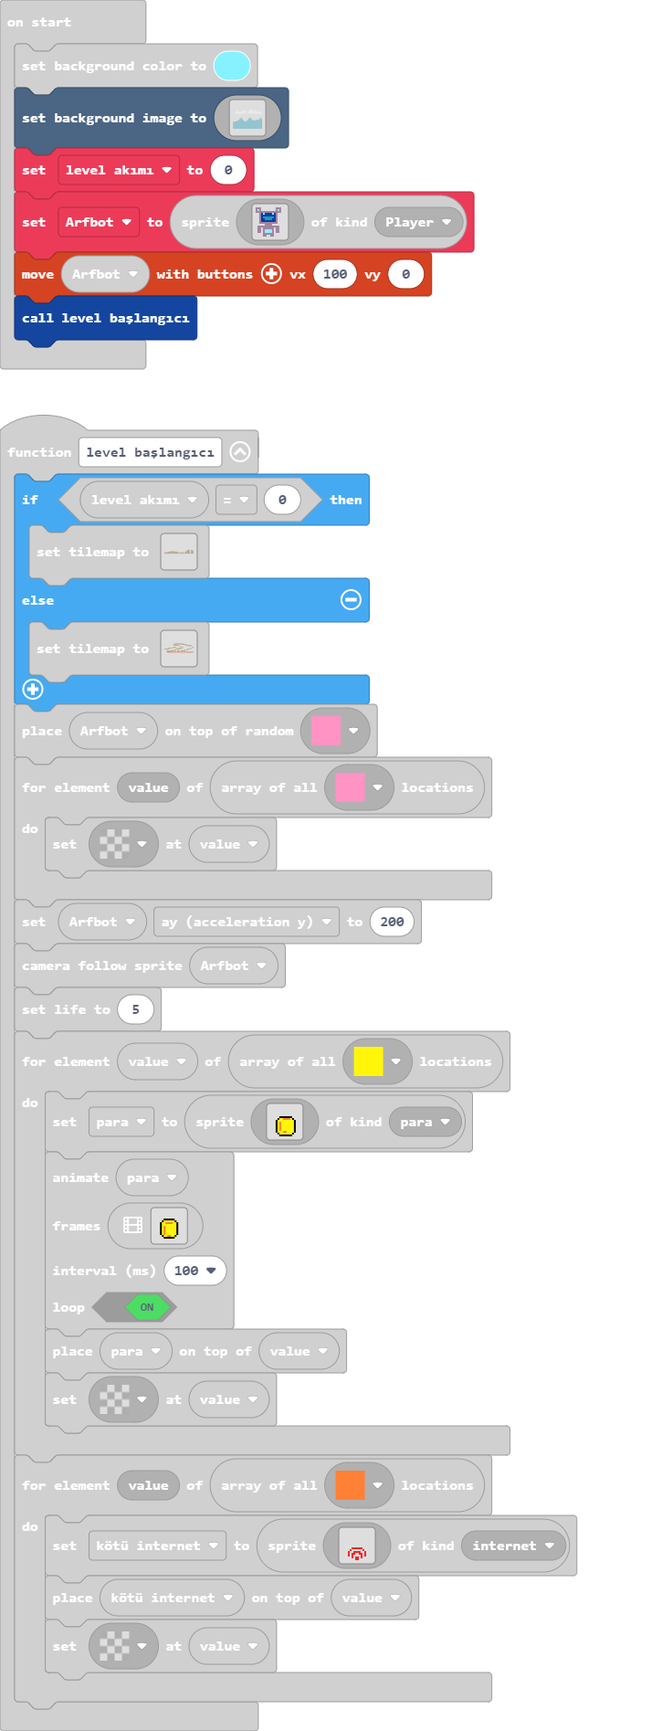
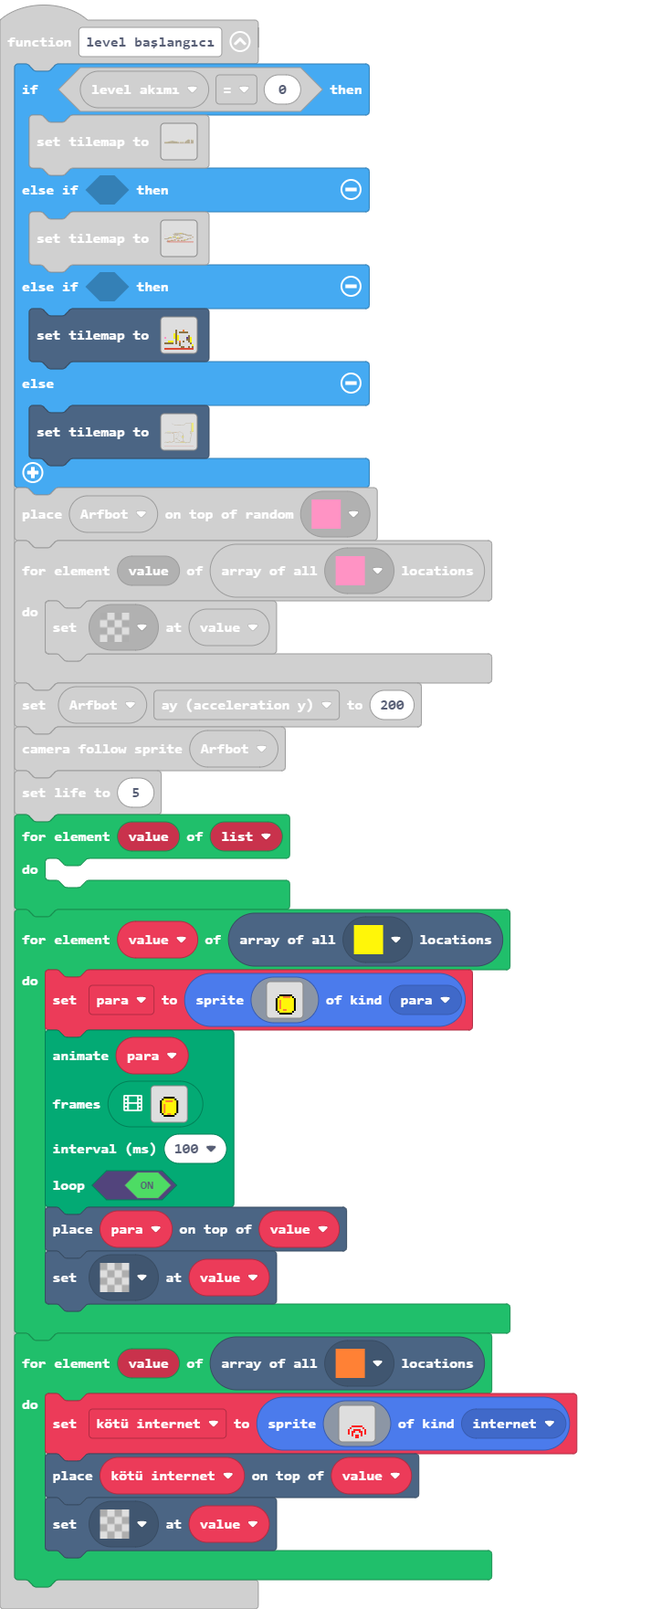
Update main.blocks, main.ts, tilemap.g.jres, tilemap.g.ts

diff --git a/tilemap.g.ts b/tilemap.g.ts
@@ -120,6 +120,128 @@ namespace myTiles {
 ....2222222.......................................
 ..................................................
 `, [myTiles.transparency16,myTiles.tile1,myTiles.tile4,myTiles.tile5,myTiles.tile7,myTiles.tile9,myTiles.tile10], TileScale.Sixteen);
+            case "level6":
+            case "level6":return tiles.createTilemap(hex`1000100000000000000000000000000000000000000000000000000000000000000000000000000000000000000000000000000000000000000000000000000000000000000000000000000000000000000000000000000000000100000005000000000000000000000001000101010101000000000000000004010000000000000000000000000000040104000000000001000006000000000401040000000003010400000000000000010400000000010104000000040404000100050001000001040001010101010001000100000000000100000000000000000001000000000000040000000000000000000101000001000102020202020202020202020202020202`, img`
+. . . . . . . . . . . . . . . . 
+. . . . . . . . . . . . . . . . 
+. . . . . . . . . . . . . . . . 
+. . . . . . . . . . . . . . . . 
+. . . . . . . . . . . . . . . . 
+. . . . . . 2 . . . . . . . . . 
+. . . . . . 2 . 2 2 2 2 2 . . . 
+. . . . . . 2 2 . . . . 2 . . . 
+. . . . . . 2 . . . . . . 2 . . 
+. . . . . . 2 . . . . . . 2 . . 
+. . . . . . 2 . . . . . 2 2 . . 
+. . . . . . 2 . . . 2 . . 2 . . 
+2 2 2 2 2 . 2 . 2 . . . . . 2 . 
+. . . . . . . . 2 . . . . . . . 
+. . . . . . . . . 2 2 . . 2 . 2 
+. . . . . . . . . . . . . . . . 
+`, [myTiles.transparency16,myTiles.tile1,myTiles.tile4,myTiles.tile5,myTiles.tile7,myTiles.tile9,myTiles.tile10], TileScale.Sixteen);
+            case "level7":
+            case "level7":return tiles.createTilemap(hex`6400640000000000000000000000000000000000000000000000000000000000000000000000000000000000000000000000000000000000000000000000000000000000000000000000000000000000000000000000000000000000000000000000000000000000000000000000000000000000000000000000000000000000000000000000000000000000000000000000000000000000000000000000000000000000000000000000000000000000000000000000000000000000000000000000000000000000000000000000000000000000000000000000000000000000000000000000000000000000000000000000000000000000000000000000000000000000000000000000000000000000000000000000000000000000000000000000000000000000000000000000000000000000000000000000000000000000000000000000000000000000000000000000000000000000000000000000000000000000000000000000000000000000000000000000000000000000000000000000000000000000000000000000000000000000000000000000000000000000000000000000000000000000000000000000000000000000000000000000000000000000000000000000000000000000000000000000000000000000000000000000000000000000000000000000000000000000000000000000000000000000000000000000000000000000000000000000000000000000000000000000000000000000000000000000000000000000000000000000000000000000000000000000000000000000000000000000000000000000000000000000000000000000000000000000000000000000000000000000000000000000000000000000000000000000000000000000000000000000000000000000000000000000000000000000000000000000000000000000000000000000000000000000000000000000000000000000000000000000000000000000000000000000000000000000000000000000000000000000000000000000000000000000000000000000000000000000000000000000000000000000000000000000000000000000000000000000000000000000000000000000000000000000000000000000000000000000000000000000000000000000000000000000000000000000000000000000000000000000000000000000000000000000000000000000000000000000000000000000000000000000000000000000000000000000000000000000000000000000000000000000000000000000000000000000000000000000000000000000000000000000000000000000000000000000000000000000000000000000000000000000000000000000000000000000000000000000000000000000000000000000000000000000000000000000000000000000000000000000000000000000000000000000000000000000000000000000000000000000000000000000000000000000000000000000000000000000000000000000000000000000000000000000000000000000000000000000000000000000000000000000000000000000000000000000000000000000000000000000000000000000000000000000000000000000000000000000000000000000000000000000000000000000000000000000000000000000000000000000000000000000000000000000000000000000000000000000000000000000000000000000000000000000000000000000000000000000000000000000000000000000000000000000000000000000000000000000000000000000000000000000000000000000000000000000000000000000000000000000000000000000000000000000000000000000000000000000000000000000000000000000000000000000000000000000000000000000000000000000000000000000000000000000000000000000000000000000000000000000000000000000000000000000000000000000000000000000000000000000000000000000000000000000000000000000000000000000000000000000000000000000000000000000000000000000000000000000000000000000000000000000000000000000000000000000000000000000000000000000000000000000000000000000000000000000000000000000000000000000000000000000000000000000000000000000000000000000000000000000000000000000000000000000000000000000000000000000000000000000000000000000000000000000000000000000000000000000000000000000000000000000000000000000000000000000000000000000000000000000000000000000000000000000000000000000000000000000000000000000000000000000000000000000000000000000000000000000000000000000000000000000000000000000000000000000000000000000000000000000000000000000000000000000000000000000000000000000000000000000000000000000000000000000000000000000000000000000000000000000000000000000000000000000000000000000000000000000000000000000000000000000000101000000000000000004000000000000000000000000000000000000000000000000000000000000000000000000000000000000000000000000000000000000000000000000000000000000000000000000010101010101010101010101010101010100000001040404040404040000000000000000000000000000000000000000000000000000000000000000000000000000000000000000000000000000000000000000000000000000000000000000000000000000000000000000000000000000000000000000010404040404040400000000000000000000000000000000000000000000000000000003000000000000000000000000000000000000000000000000000000000000000000000000000000000000000000000000000000000000000000000000000000000104040404040404000000000000000000000000000000000000000000000000000000010000000000000000000000000000000000000000000000000000000000000000000000000000000000010000000000000000000000000000000000000000000001040404040404040000000000000000000000000000000000000000000000000000000000010000000000000000000000000000000000000000000000000000000000000000000000000000000100000000000000000000000000000000000000000000010404040404040400000000000000000000000000000000000000000000000000000000000000010000000000000000000000000000000000000000000000000000000000000000000000000101000000000000000000000000000000000000000000000104040404040404000000000000000000000000000000000000000000000000000000000000000000010000000000000000000000000000000000000000000001010101010101010101010101000000000000000000000000000000000000000000000001040404040404040000000000000000000000000000000000000000000000000000000000000000000000010000000000000000000001010101010101010101000000000000000000000000000000000000000000000000000000000000000000000000010404040404040400000000000000000000000000000000000000000000000000000000000000000000000101010101010101010101010000000000000000000000000000000000000000000000000000000000000000000000000000000000000000000104040404040404000000000000000000000000000000000000000000000000000000000000000000000000000000000000000000000000000000000000000000000000000000000000000000000000000000000000000000000000000000000000000001040404040404040000000000000000000000000000000000000000000000000000000000000000000000000000000000000000000000000000000000000000000000000000000000000000000000000000000000000000000000000000000000000000010404040404040400000000000000000000000000000000000000000000000000000000000000000000000000000000000000000000000000000000000000000000000000000000000000000000000000000000000000000000000000000000000000000104040404040404000000000000000000000000000000000000000000000000000000000000000000000000000000000000000000000000000000000000000000000000000000000000000000000000000000000000000000000000000000000000000001040404040404040000000000000000000000000000000000000000000000000000000000000000000000000000000000000000000000000000000000000000000000000000000000000000000000000000000000000000000000000000000000000000010404040404040400000000000000000000000000000000000000000000000000000000000000000000000000000000000000000000000000000000000000000000000000000000000000000000000000000000000000000000000000000000000000000104040404040404000000000000000000000000000000000000000000000000000000000000000000000000000000000000000000000000000000000000000000000000000000000000000000000000000000000000000000000000000000000000000001040404040404040000000000000000000000000000000000000000000000000000000000000000000000000000000000000000000000000000000000000000000000000000000000000000000000000000000000000000000000000000000000000000010404040404040400000000000000000000000000000000000000000000000000000000000000000000000000000000000000000000000000000000000000000000000000000000000000000000000000000000000000000000000000000000000000000104040404040404000000000000000000000000000000000000000000000000000000000000000000000000000000000000000000000000000000000000000000000000000000000000000000000000000000000000000000000000000000000000000001040404040404040000000000000000000000000000000000000000000000000000000000000000000000000000000000000000000000000000000000000000000000000000000000000000000000000000000000000000000000000000000000000000010404040404040400000000000000000000000000000000000000000000000000000000000000000000000000000000000000000000000000000000000000000000000000000000000000000000000000000000000000000000000000000000000000000104040404040404000000000000000000000000000000000000000000000000000000000000000000000000000000000000000000000000000000000000000000000000000000000000000000000000000000000000000000000000000000000000000001040404040404040000000000000000000000000000000000000000000000000000000000000000000000000000000000000000000000000000000000000000000000000000000000000000000000000000000000000000000000000000000000000000010404040404040400000000000000000000000000000000000000000000000000000000000000000000000000000000000000000000000000000000000000000000000000000000000000000000000000000000000000000000000000000000000000000104040404040404000000000000000000000000000000000000000000000000000000000000000000000000000000000000000000000000000000000000000000000000000000000000000000000000000000000000000000000000000000000000000001040404040404040000000000000000000000000000000000000000000000000000000000000000000000000000000000000000000000000000000000000000000000000000000000000000000000000000000000000000000000000000000000000000010404040404040400000000000000000000000000000000000000000000000000000000000000000000000000000000000000000000000000000000000000000000000000000000000000000000000000000000000000000000000000000000000000000104040404040404000000000000000000000000000000000000000000000000000000000000000000000000000000000000000000000000000000000000000000000000000000000000000000000000000000000000000000000000000000000000000001040404040404040000000000000000000000000000000000000000000000000000000000000000000000000000000000000000000000000000000000000000000000000000000000000000000000000000000000000000000000000000000000000000010404040404040400000000000000000000000000000000000000000000000000000000000000000000000000000000000000000000000000000000000000000000000000000000000000000000000000000000000000000000000000000000010101000104040404040404000000000000000000000404040404040404040404040000000000000000000000000000000000000000000000000005000000010101010000000000000000000000000000000000000000000000000000000000000000000100000001040401010101010000000000010101010101010101010101010101010101010101010101010000000005050505050505000001010105050501010000000000000000000000000000000000000000000000000000000000000000000000000001000000010101000000000000000001000000000000000000000000000000000000000000000000000101010101010101010101010101000000000000000000000000010101000000000000000000000000000000000000000000000000000000000000010000000000000000000000000000010000000000000000000000000000000000000000000000000000000000000000000000000000000000000000000000000000000000000000000500000000000000000000000000000000000000000000000000000100040400000000000000000001000000000000000000000000000000000000000000000005050000000000000000000000000000000000000000000000000000000000000000000101010100000000000000000000000000000000000000000000000001000101000100000000000000000101000100010000010000000100000001010101000001050501010101000000000000000000000000000000000000000000000000000000000000000000000000000000000000000000000000000000000000000000010101000001000000000000000000000000000000000001010100000101000000000000000000000000010100010000000000000000000000010000010000000000000000000000000000000000000000000000000000000000000000000000000000000000000000010000000000000000000000000000000000000000000000000000000000000000000000000000000100000000000000000000000000000000010000000000000000000000000000000000000000000000000000000000000000000000000000000000000100000000000000000000000000000000000000000000000000000000000000000000000000000001000000000000000000010000000000000000000000000000000000000000010000000000000000000000000000000000000000000000000000000001000000000000000000000000000000000000000000000000000000000000000000000000000000010000000000000000000000000000010000000000000000000000000000000100000000000000000000000000000000000000000000000000000001010000000000000000000000000000000000000000000000000000000000000000000000000000000100000000000000000100000000000000000000000000000000000000000001000000000000000000000000000000000000000000000000000000010000000000000000000000000000000000000000000000000000000000000000000000000000000001000000000000000000000000000100000000000000000000000000000000010000000000000000000000000000000000000000000000000000000100000000000000000000000000000000000000000000000000000000000000000000000000000000010000000000000100000000000000000100000000000000000000000000000100000000000000000000000000000000000000000000000000000001000000000000000000000000000000000000000000000000000000000000000000000000000000050100000000000000000000000000000000000100000000000000000000000001000000000000000000000000000000000000000000000000000000010000000000000000000000000000000000000000000000000000000000000000000000000000000100000000000000000000000000000000000000000100000000000000040101010100000000000000000000000000000000000000000000000000010000000000000000000000000000000000000000000000000000000000000000000000000000000001000000000000000000000000000000000100000000000100000000010101040401000000000000000000000000000000000000000000000000000100000000000000000000000000000000000000000000000000000000000000000000000000000000010000000000010000000000000000000000000000000000000000000104040404010000000000000000000000000000000000000000000000000001000000000000000000000000000000000000000000000000000000000000000000000000000000000100000000000000000000000000000100000000000000000001000000040404040100000000000000000000000000000000000000000000000001000000000000000000000000000000000000000000000000000000000000000000000000000000000001000000000000000000000000010000000000000000000000000000000404040401000000000000000000000000000000000000000000000000010000000000000000000000000000000000000000000000000000000000000000000000000000000000010000000000000000000001000000000000000000000000000000010104040404010000000000000000000000000000000000000000000000000100000000000000000000000000000000000000000000000000000000000000000000000000000000000100000000010000000000000000000000000000000000000000000101040404040100000000000000000000000000000000000000000000000001000000000000000000000000000000000000000000000000000000000000000000000000000000000001000000000000000001000000000000000000000000000000000000000001010100000000000000000000000000000000000000000000000000010000000000000000000000000000000000000000000000000000000000000000000000000000000000010000000000000100000000000000000000000000000000000000000000000001000000000000000000000000000000000000000000000000010100000000000000000000000000000000000000000000000000000000000000000000000000000000000100000001000001010000000000000000000000000000000000000000000000010000000000000000000000000000000000000000000000000100000000000000000000000000000000000000000000000000000000000000000000000000000000000001000000000000010101010000000000000000000000000000000000000000000100000000000000000000000000000000000000000000000001000000000000000000000000000000000000000000000000000000000000000000000000000000000000010000000000000000000101010100000000000000000000000000000000000001000000000000000000000000000000000000000000000001010000000000000000000000000000000000000000000000000000000000000000000000000000000000000100000001000000000000000001010000000000000000000000000000000000010000000000000000000000000000000000000000000000010000000000000000000000000000000000000000000000000000000000000000000000000000000000000001000000000000000000000000000000000000000000000000000000000000000100000000000000000000000000000000000000000000000100000000000000000000000000000000000000000000000000000000000000000000000000000000000005010000000000000000000000000000000100000000000000000000000000000001000000000000000000000000000000000000000000000001000000000000000000000000000000000000000000000000000000000000000000000000000000000000050100000001000000000000000000000001010100000000000000000000000000010000000000000000000000000000000000000000000000010000000000000000000000060000000000000000000000000000000000000000000000000000000000000001000000000000000000000000000000000001010000000000000000000000000101000000000000000000000000000000000000000000000100000000000000000000000000000000000000000000000000000000000000000000000000000000000000010000000000000000000000000000000000000101000000000000000000000000000100000000000000000000000000000000000000000001000000000000000000000000000000000000000000000000000000000000000000000000000000000000000100000000000000000000000000000000000000000100000000000005050500000000010000000000000000000000000000000000000001010000000000000000000000000000000000000000000000000000000000000000000000000000000505000001000000010000000000000000000000000000000000000000000001050505010100000001000000000000000000000000000000000000010000000000000000000000000000000000000000000000000000000005050505050000000000000101010101010000000000000000000000000000000000000000000001010101010001010000000101000000000000000000000000000000000000000100000000000000000000000000000001010101000000040400000101010101010100000000000101000000000000000001000000000000000000000000000000000000000000000000000000000100000000000000000000000000040000000000000001000000000000000000000000010101000000010101010101010100000000000001010101010101000000000000000000000000000000000000010101000000000004040404040404040404040404040404040404000000000001010101010101000000010000000000000000000000000000000000000000000000010101000000000000000000000000000000000000000000000000010101010101010000010101010101010101010101010101010101010101010101010101010101010000000000010101010100000000000000000000000000000000000000000000000000000000000000000000000000000000000000000000000000000100000000000000000000000000000000000000000000000000000000000000000001010100000000000000000000000000000000000000000000000000000000000000000000000000000000000000000000000000000000000000000000000000000000000000000000000000000000000000000000000000000000000000000000000000000000000000000000000000000000000000000000000000000000000000000000000000000000000000000000000000000000000000000000000000000000000000000000000000000000000000000000000000000000000000000000000000000000000000000000000000000000000000000000000000000000000000000000000000000000000000000000000000000000000000000000000000000000000000000000000000000000000000000000000000000000000000000000000000000000000000000000000000000000000000000000000000000000000000000000000000000000000000000000000000000000000000000000000000000000000000000000000000000000000000000000000000000000000000000000000000000000000000000000000000000000000000000000000000000000000000000000000000000000000000000000000000000000000000000000000000000000000000000000000000000000000000000000000000000000000000000000000000000000000000000000000000000000000000000000000000000000000000000000000000000000000000000000000000000000000000000000000000000000000000000000000000000000000000000000000000000000000000000000000000000000000000000000000000000000000000000000000000000000000000000000000000000000000000000000000000000000000000000000000000000000000000000000000000000000000000000000000000000000000000000000000000000000000000000000000000000000000000000000000000000000000000000000000000000000000000000000000000000000000000000000000000000000000000000000000000000000000000000000000000000000000000000000000000000000000000000000000000000000000000000000000000000000000000000000000000000000000000000000000000000000000000000000000000000000000000000000000000000000000000000000000000000000000000000000000000000000000000000000000000000000000000000000000000000000000000000000000000000000000000000000000000000000000000000000000000000000000000000000000000000000000000000000000000000000000000000000000000000000000000000000000000000000000000000000000000000000000000000000000000000000000000000000000000000000000000000000000000000000000000000000000000000000000000000000000000000000000000000000000000000000000000000000000000000000000000000000000000000000000000000000000000000000000000000000000000000000000000000000000000000000000000000002020202020202020202020202020202020202020202020202020202020202020202020202020202020202020202020202020202020202020202020202020202020202020202020202020202020202020202020202020202020202020202020202020202`, img`
+....................................................................................................
+....................................................................................................
+....................................................................................................
+....................................................................................................
+....................................................................................................
+....................................................................................................
+....................................................................................................
+....................................................................................................
+....................................................................................................
+....................................................................................................
+....................................................................................................
+....................................................................................................
+....................................................................................................
+....................................................................................................
+....................................................................................................
+....................................................................................................
+....................................................................................................
+....................................................................................................
+.........................................................................................22.........
+........................................................................222222222222222222..2.......
+........................................................................222222..............2.......
+............................................................................................2.......
+...........................2.........................................2......................2.......
+.............................2.......................................2......................2.......
+...............................2....................................22......................2.......
+.................................2......................2222222222222.......................2.......
+...................................2..........22222222222...................................2.......
+...................................222222222222.............................................2.......
+............................................................................................2.......
+............................................................................................2.......
+............................................................................................2.......
+............................................................................................2.......
+............................................................................................2.......
+............................................................................................2.......
+............................................................................................2.......
+............................................................................................2.......
+............................................................................................2.......
+............................................................................................2.......
+............................................................................................2.......
+............................................................................................2.......
+............................................................................................2.......
+............................................................................................2.......
+............................................................................................2.......
+............................................................................................2.......
+............................................................................................2.......
+............................................................................................2.......
+............................................................................................2.......
+............................................................................................2.......
+........................................................................................222.2.......
+...................................................22222................................2...2..22222
+.....2222222222222222222222222..............2222222.....................................2...222.....
+...2.........................22222222222222............2222.............................2...........
+...2....................................................................................2...........
+.2..........................................................2222........................2.22.2......
+..22.222..2...2...2222..2..2222...............................22........................222..2......
+..........2222..22............22.2...........2..2.............22.............................2......
+.................................2................2...........22.............................2......
+.................................2.........2..................222............................2......
+.................................2..............2.............222...........................22......
+.................................2........2.....................2...........................2.......
+.................................2.............2................2...........................2.......
+.................................2......2........2..............2...........................2.......
+.................................2.................2............2...........................2.......
+................................2....................2.......22222.........................2........
+................................2................2....22....222..2.........................2........
+................................2.....2.....................2....2.........................2........
+................................2.....2........2.........2.......2........................2.........
+................................2.....2......2...................2........................2.........
+................................2.....2....2.2.............22....2........................2.........
+................................2....22....................22....2........................2.........
+................................2.....2..2...................222222.......................2.........
+................................2.....22........................2........................22.........
+................................2...2.222.......................2........................2..........
+................................2......2222.....................2........................2..........
+................................2.........2222..................2.......................22..........
+................................2...2........22.................2.......................2...........
+................................2...............................2.......................2...........
+................................2...............2...............2.......................2...........
+................................2...2...........222.............2.......................2...........
+................................2.................22............22......................2...........
+................................2..................22.............2.....................2...........
+................................2....................2.............2...................22...........
+................................2...2......................2...22...2..................2............
+...........................222222......................22222222...22...................2............
+...2222.......2222222.....22........2............................2.....................2............
+222...22222222......2222222..................222.............................2222222...2............
+..22..................................2222222..2222222222222222222222222222222.....22222............
+......................................2.............................................................
+....................................................................................................
+....................................................................................................
+....................................................................................................
+....................................................................................................
+....................................................................................................
+....................................................................................................
+....................................................................................................
+....................................................................................................
+....................................................................................................
+....................................................................................................
+....................................................................................................
+....................................................................................................
+`, [myTiles.transparency16,myTiles.tile1,myTiles.tile4,myTiles.tile5,myTiles.tile7,myTiles.tile9,myTiles.tile10], TileScale.Sixteen);
         }
         return null;
     })

diff --git a/main.ts b/main.ts
@@ -5,14 +5,19 @@ namespace SpriteKind {
     export const internet = SpriteKind.create()
     export const K = SpriteKind.create()
 }
+let list: number[] = []
 scene.onOverlapTile(SpriteKind.Player, assets.tile`tile4`, function (sprite, location) {
     game.over(false, effects.melt)
 })
 function level_başlangıcı () {
     if (level_akımı == 0) {
         tiles.setTilemap(tilemap`level1`)
-    } else {
+    } else if (false) {
         tiles.setTilemap(tilemap`level5`)
+    } else if (false) {
+        tiles.setTilemap(tilemap`level6`)
+    } else {
+        tiles.setTilemap(tilemap`level7`)
     }
     tiles.placeOnRandomTile(Arfbot, assets.tile`tile`)
     for (let value of tiles.getTilesByType(assets.tile`tile`)) {
@@ -21,6 +26,9 @@ function level_başlangıcı () {
     Arfbot.ay = 200
     scene.cameraFollowSprite(Arfbot)
     info.setLife(5)
+    for (let value of list) {
+    	
+    }
     for (let value of tiles.getTilesByType(assets.tile`tile7`)) {
         para = sprites.create(img`
             . . . . . . . . . . . . . . . . 
